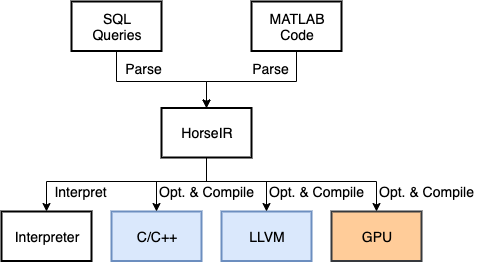
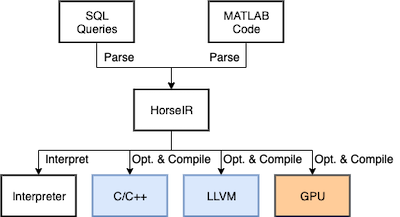
adjust

diff --git a/README.md b/README.md
@@ -10,7 +10,7 @@ fine-grained parallelism.
 
 ## Project Overview
 
-<p align="center"><img src="docs/figures/horse-flow2.png" width="90%"/></p>
+<p align="center"><img src="docs/figures/horse-flow2.png"/></p>
 <p align="center">Figure 1. The workflow of the HorsePower framework.</p>
 
 In summer 2017, we started this project from scratch.  The workflow of the
